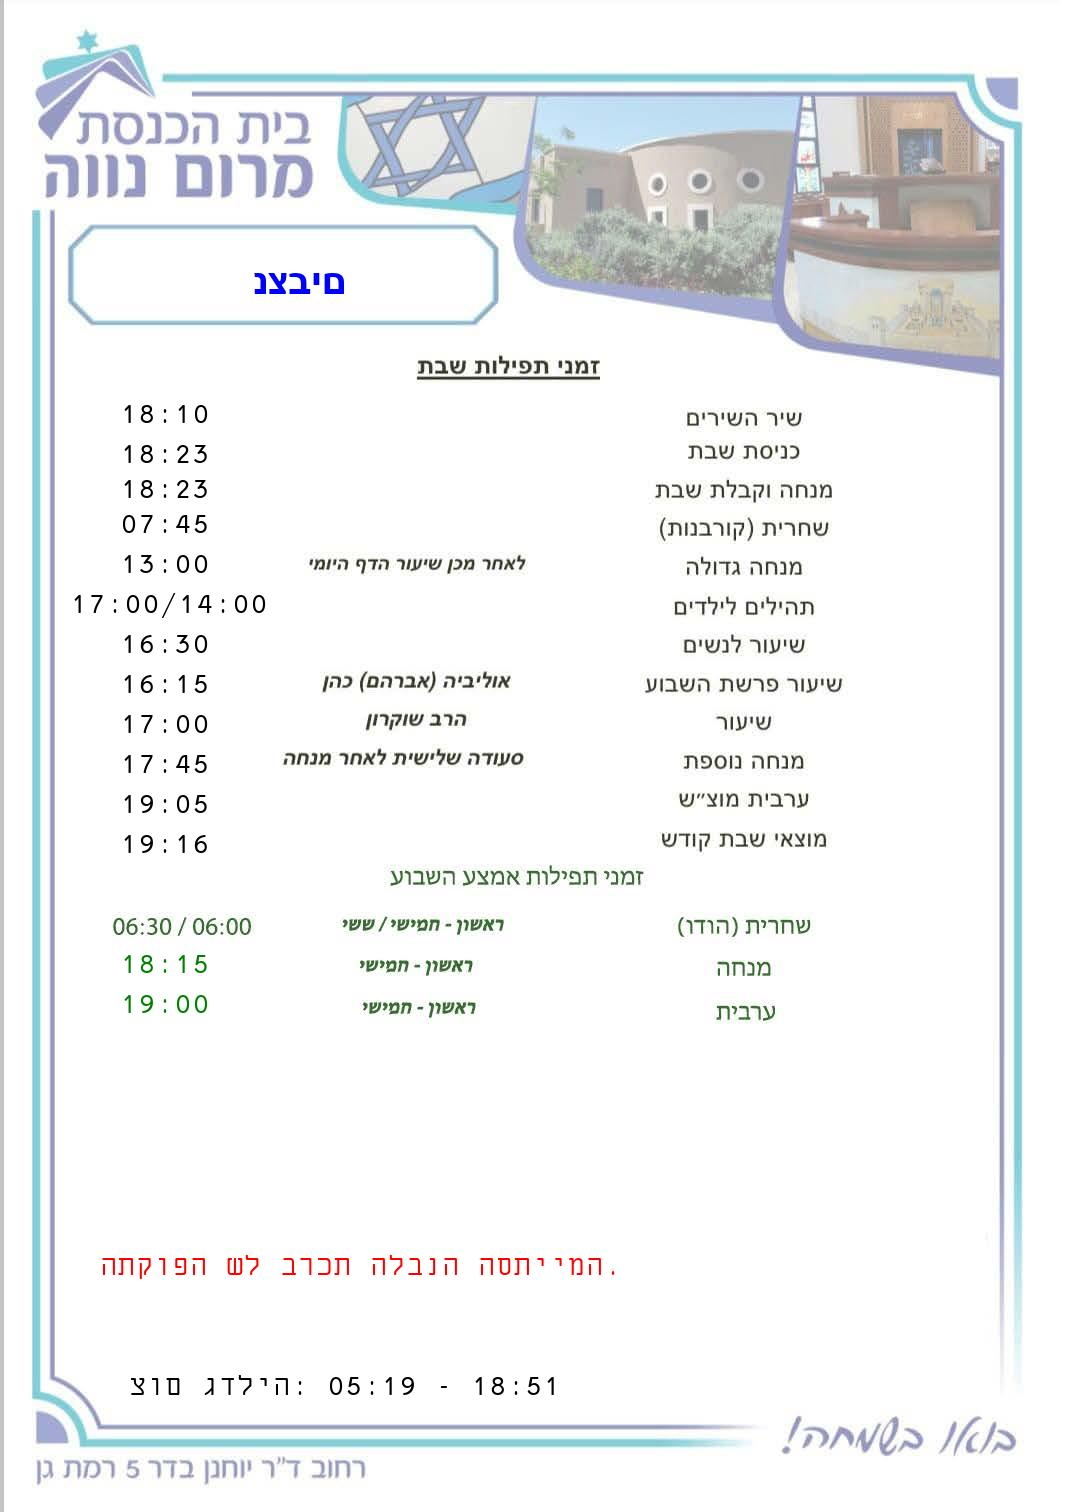
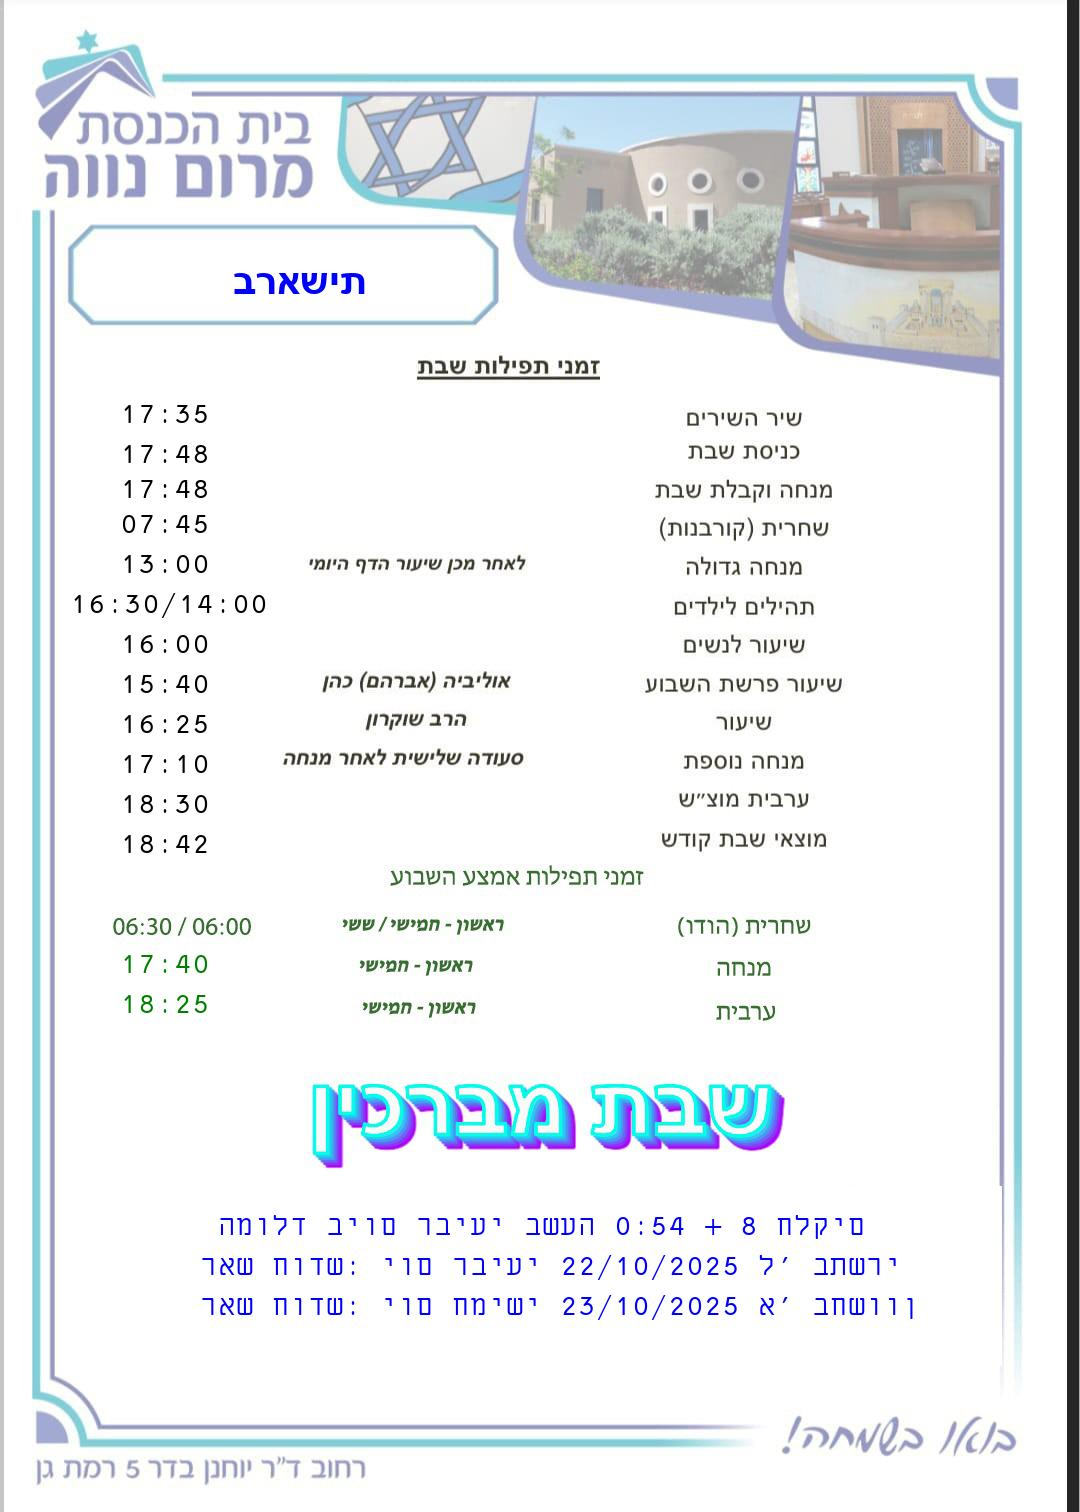
new heure tehilim

diff --git a/horaires_shabbat.py b/horaires_shabbat.py
@@ -753,7 +753,7 @@ class ShabbatScheduleGenerator:
     def calculate_times(self, shabbat_start, shabbat_end):
         start_minutes = shabbat_start.hour * 60 + shabbat_start.minute
         end_minutes = shabbat_end.hour * 60 + shabbat_end.minute
-        tehilim_ete = self.round_to_nearest_five(17 * 60)
+        tehilim_ete = self.round_to_nearest_five(16 * 60 +30)
         tehilim_hiver = self.round_to_nearest_five(14 * 60)
         tehilim = tehilim_ete if self.season == "summer" else tehilim_hiver
 
@@ -765,7 +765,7 @@ class ShabbatScheduleGenerator:
             "tehilim": tehilim,
             "tehilim_ete": tehilim_ete,
             "tehilim_hiver": tehilim_hiver,
-            "shiur_nashim": 16 * 60 +30,
+            "shiur_nashim": 16 * 60 +00,
             "arvit_hol": None,
             "arvit_motsach": None,
             "mincha_2": None,
